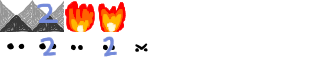
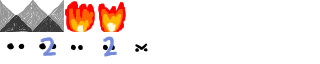
Level loading

Changed region(s): [[0.0938, 0.0, 0.2188, 0.5], [0.1875, 0.0, 0.2188, 0.0625]]

diff --git a/src/player.js b/src/player.js
@@ -1,5 +1,8 @@
 // Function to move the cat and the rat
 function moveCatNRat(_dir){
+  // Check for Game Over
+  if(cat == undefined || rat == undefined){ return; }
+
   // Make temporary copies of the cat and rat positions for moving
   var tCat = { x: cat.x, y: cat.y };
   var tRat = { x: rat.x, y: rat.y };
@@ -22,8 +25,8 @@ function moveCatNRat(_dir){
   });
 
   // Check the positions to move to against the entities list
-  var catHalt = false;  // Flag to stop the cat from moving
-  var ratHalt = false;  // Flag to stop the rat from moving
+  var halt = [false, false];  // Flag to stop them from moving [cat, rat]
+  var kill = [false, false];  // Flag to kill them [cat, rat]
   for(var _i = 0; _i < entities.length; _i++){
     var e = entities[_i];
 
@@ -31,21 +34,31 @@ function moveCatNRat(_dir){
     switch(e.type){
       // Stop if going to move into a wall
       case types.WALL:
-        if(e.x == tCat.x && e.y == tCat.y){ catHalt = true; }
-        if(e.x == tRat.x && e.y == tRat.y){ ratHalt = true; }
+        if(e.x == tCat.x && e.y == tCat.y){ halt[0] = true; }
+        if(e.x == tRat.x && e.y == tRat.y){ halt[1] = true; }
         break;
       // Fail the level if going to move into a kill block
       case types.KILL:
-        if((e.x == tCat.x && e.y == tCat.y) || (e.x == tRat.x && e.y == tRat.y)){
-          title.innerText = "Game Over!";
-        }
+        if(e.x == tCat.x && e.y == tCat.y){ kill[0] = true; }
+        if(e.x == tRat.x && e.y == tRat.y){ kill[1] = true; }
         break;
     }
   }
 
-  // Move the cat to tCat
-  if(!catHalt){ cat.x = tCat.x; cat.y = tCat.y; }
-  // Move the rat to tRat
-  if(!ratHalt){ rat.x = tRat.x; rat.y = tRat.y; }
+  if(
+    (tCat.x == rat.x && tCat.y == rat.y &&
+    tRat.x == cat.x && tRat.y == cat.y) ||
+    (tCat.x == tRat.x && tCat.y == tRat.y)
+  ){
+    // LEVEL PASSED!!
+    clearLevel();
+  }
 
+  // Move the cat and rat
+  if(!halt[0]){ cat.x = tCat.x; cat.y = tCat.y; }
+  if(!halt[1]){ rat.x = tRat.x; rat.y = tRat.y; }
+
+  // Kill the cat and rat
+  if(kill[0]){ cat = undefined; console.log("GAME OVER! CAT DIED T_T"); }
+  if(kill[1]){ rat = undefined; console.log("GAME OVER! RAT DIED Y_Y"); }
 }

diff --git a/src/level.js b/src/level.js
@@ -1,16 +1,41 @@
 var entities = [];
+var cat, rat;
 
 // Wrapper function to make entity loading a little easier
 function makeEntity(_x, _y, _type){
   return entities[entities.push(new Entity(_x, _y, _type)) - 1];
 };
 
-var cat = makeEntity(0, 0, 'CAT');
-var rat = makeEntity(15, 11, 'RAT');
+function clearLevel(){
+  for(var i = 0; i < entities.length; i++){ delete entities[i]; }
+  entities = [];
+}
 
-function loadLevel(){
-  makeEntity(8, 2, 'WALL');
-  makeEntity(8, 5, 'KILL');
+function loadLevel(_dat = []){
+  var posIter = [0, 0];
+  for(var i = 0; i < _dat.length; i++){
+    var t = _dat[i];
+
+    if(t == types.CAT){ cat = makeEntity(posIter[0], posIter[1], 'CAT'); }
+    else if(t == types.RAT){ rat = makeEntity(posIter[0], posIter[1], 'RAT'); }
+    else{
+      switch(t){
+        case types.WALL:
+          t = 'WALL';
+          break;
+        case types.KILL:
+          t = 'KILL';
+          break;
+        default:
+          t = 'EMPTY';
+          break;
+      }
+      makeEntity(posIter[0], posIter[1], t);
+    }
+
+    posIter[0]++;
+    if(posIter[0] >= MAP_SIZE[0]){ posIter[0] = 0; posIter[1]++; }
+  }
 }
 
 function drawLevel(){
@@ -21,9 +46,12 @@ function drawLevel(){
   for(var i = 0; i < entities.length; i++){
     var e = entities[i];
 
+    // Skip empty tiles
+    if(e.type == types.EMPTY){ continue; }
+
     // Select the alternate sprite when 2nd image flag is raised
     var eSpriteX = e.sprite[0];
-    if(tiles[2]){ eSpriteX++; };
+    if(e.bop){ eSpriteX++; };
 
     // Draw the sprite at the entity position
     context.drawImage(tiles[0],

diff --git a/src/main.js b/src/main.js
@@ -1,6 +1,6 @@
 var title;
 var canvas, context;
-var tiles = [null, false, false];  // Tiles image, loaded flag and 2nd image flag
+var tiles = [null, false];  // Tiles image, loaded flag
 
 function loadTiles(){
   // Load the tiles image in and raise the tiles loaded flag
@@ -18,17 +18,27 @@ $(function(){
 
   // Set up the sprite wiggle
   setInterval(function(){
-    tiles[2] = !tiles[2];
+    for(var i = 0; i < entities.length; i++){ entities[i].bop = !entities[i].bop }
     draw();
   }, 750);
 
   loadTiles();
-  loadLevel();
+  loadLevel(tmp_level);
   main();
 });
 
 // Handle keyboard input
 $(document).on("keypress", function(e){
+
+  if(e.which == 101){ // E
+    clearLevel();
+  }
+
+  // Reset the level
+  if(e.which == 114){  // R
+    clearLevel();
+    loadLevel(tmp_level);
+  }
 
   // WASD movement
   if(e.which == 119){ moveCatNRat(dir.UP); }    // W

diff --git a/src/constants.js b/src/constants.js
@@ -13,10 +13,26 @@ const sprites = {
 }
 
 const types = {
-  CAT: 0,
-  RAT: 1,
-  DEVIL: 2,
-  WALL: 3,
-  PUSH: 4,
-  KILL: 5
+  EMPTY: 0,
+  CAT: 1,
+  RAT: 2,
+  DEVIL: 3,
+  WALL: 4,
+  PUSH: 5,
+  KILL: 6
 }
+
+const tmp_level = [
+  4, 4, 4, 4, 4, 4, 4, 4, 4, 4, 4, 4, 4, 4, 4, 4,
+  4, 1, 0, 0, 0, 0, 0, 0, 6, 0, 0, 0, 0, 0, 0, 4,
+  4, 0, 0, 0, 0, 0, 0, 0, 6, 0, 0, 0, 0, 0, 0, 4,
+  4, 0, 0, 0, 0, 0, 0, 0, 6, 0, 0, 0, 0, 0, 0, 4,
+  4, 0, 0, 0, 0, 0, 0, 0, 6, 0, 0, 0, 0, 0, 0, 4,
+  4, 0, 0, 0, 0, 0, 0, 0, 6, 0, 0, 0, 0, 0, 0, 4,
+  0, 0, 0, 0, 0, 0, 0, 0, 6, 0, 0, 0, 0, 0, 0, 0,
+  4, 0, 0, 0, 0, 0, 0, 0, 6, 0, 0, 0, 0, 0, 0, 4,
+  4, 0, 0, 0, 0, 0, 0, 0, 6, 0, 0, 0, 0, 0, 0, 4,
+  4, 0, 0, 0, 0, 0, 0, 0, 6, 0, 0, 0, 0, 0, 0, 4,
+  4, 0, 0, 0, 0, 0, 0, 0, 6, 0, 0, 0, 0, 0, 2, 4,
+  4, 4, 4, 4, 4, 4, 4, 4, 4, 4, 4, 4, 4, 4, 4, 4
+];

diff --git a/src/objects.js b/src/objects.js
@@ -5,6 +5,7 @@ class Entity{
     this.y = _y;
     this.type = eval('types.' + _type);
     this.sprite = eval('sprites.' + _type);
+    this.bop = ((Math.random() >= 0.5) ? true : false);
   }
 
 }

diff --git a/README.md b/README.md
@@ -11,3 +11,6 @@ A game I'm making for no reason.
 * __SWAP__: A cell which swaps the positions of the cat and the rat when touched by one of them.
 * __PORTAL__: Two linked entities that either the cat or the rat will warp to when touched.
 * __GATE&KEY__: A wall cell that is deleted when a linked key entity is brought to it.
+
+### Dependencies
+* JQuery 3.5.1
